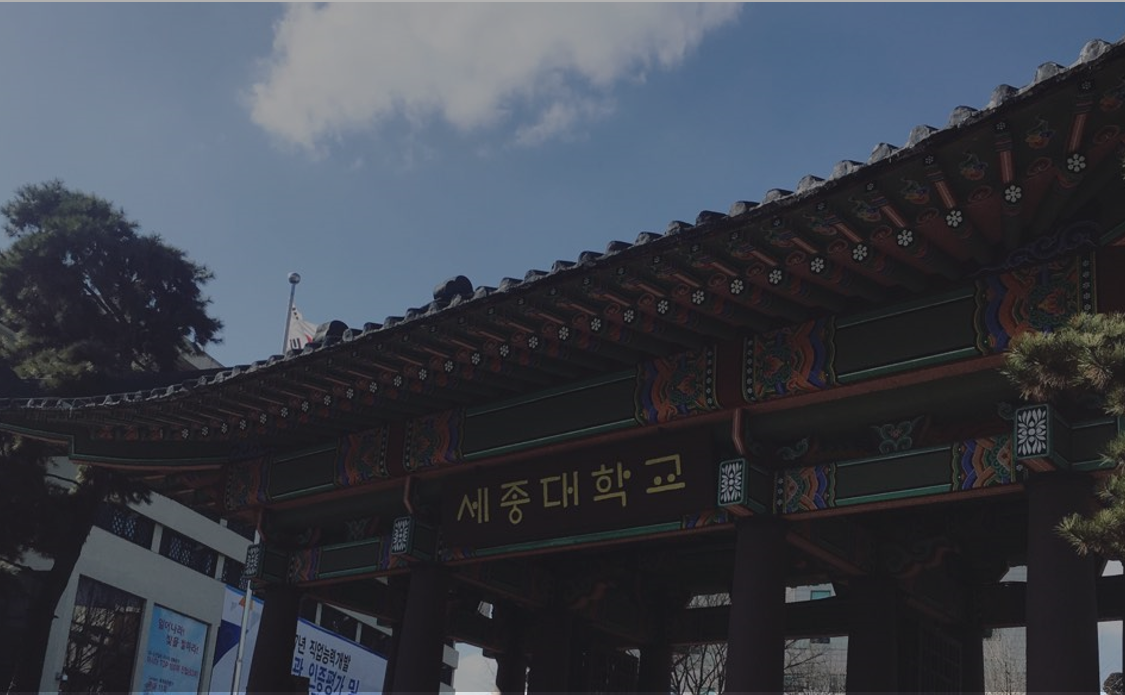
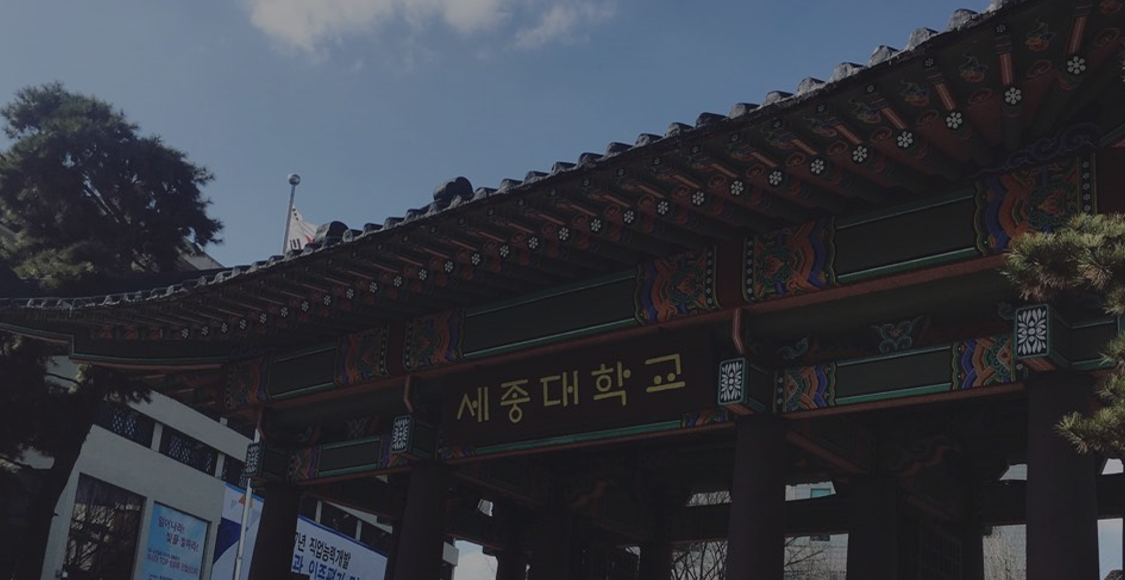
중간크기 미디어 쿼리 변경

diff --git a/css/main.css b/css/main.css
@@ -76,6 +76,7 @@ body {
 .navbar ul li {
     list-style-type: none;
     display: inline-block;
+    border-radius: 10px;
 }
 
 
@@ -96,7 +97,7 @@ body {
 /* CUSTOMIZE THE CAROUSEL
 -------------------------------------------------- */
 
-.carousel{
+.carousel {
     margin-top: 50px;
 }
 
@@ -104,6 +105,7 @@ body {
 -------------------------------------------------- */
 
 /* Center align the text within the three columns below the carousel */
+
 .marketing {
     padding-top: 50px;
 }
@@ -123,7 +125,64 @@ body {
 }
 
 
+
 @media (min-width: 768px) {
+    /* Navbar positioning foo */
+    .navbar-wrapper {
+        margin-top: 0px;
+        height: 100px;
+    }
+
+    .navbar-wrapper .container {
+        padding-right: 15px;
+        padding-left: 15px;
+
+    }
+
+    .navbar-wrapper .navbar {
+        padding-right: 0;
+        padding-left: 0;
+        background: transparent;
+    }
+
+    .navbar-inverse .navbar-nav > li > a {
+        font-size: 20px;
+    }
+
+    .back1_font {
+        font-size: 80px
+    }
+
+    /* The navbar becomes detached from the top, so we round the corners */
+    .navbar-wrapper .navbar {
+        border-radius: 4px;
+    }
+
+    .navbar ul li {
+        margin-top: 27px;
+        padding: 0px 15px;
+    }
+
+    .navbar-brand {
+        width: 130px;
+        height: 100px;
+        background-image: url(../images/inf_logo.png);
+        background-repeat: no-repeat;
+        background-size: contain;
+        background-position: center;
+    }
+
+    .carousel {
+        margin-top: 0px;
+    }
+
+    .featurette-heading {
+        font-size: 50px;
+    }
+}
+
+
+@media (min-width: 1024px) {
     /* Navbar positioning foo */
     .navbar-wrapper {
         margin-top: 0px;
@@ -170,6 +229,9 @@ body {
         background-position: center;
     }
 
+    .carousel {
+        margin-top: 0px;
+    }
 
     .featurette-heading {
         font-size: 50px;

diff --git a/index.html b/index.html
@@ -100,7 +100,7 @@
             </div>
 
             <div class="item">
-                <img src="images/back3.jpg" alt="New York" style="width:100%;">
+                <img src="images/back3.png" alt="New York" style="width:100%;">
                 <div class="carousel-caption">
                     <h3>New York</h3>
                     <p>We love the Big Apple!</p>
